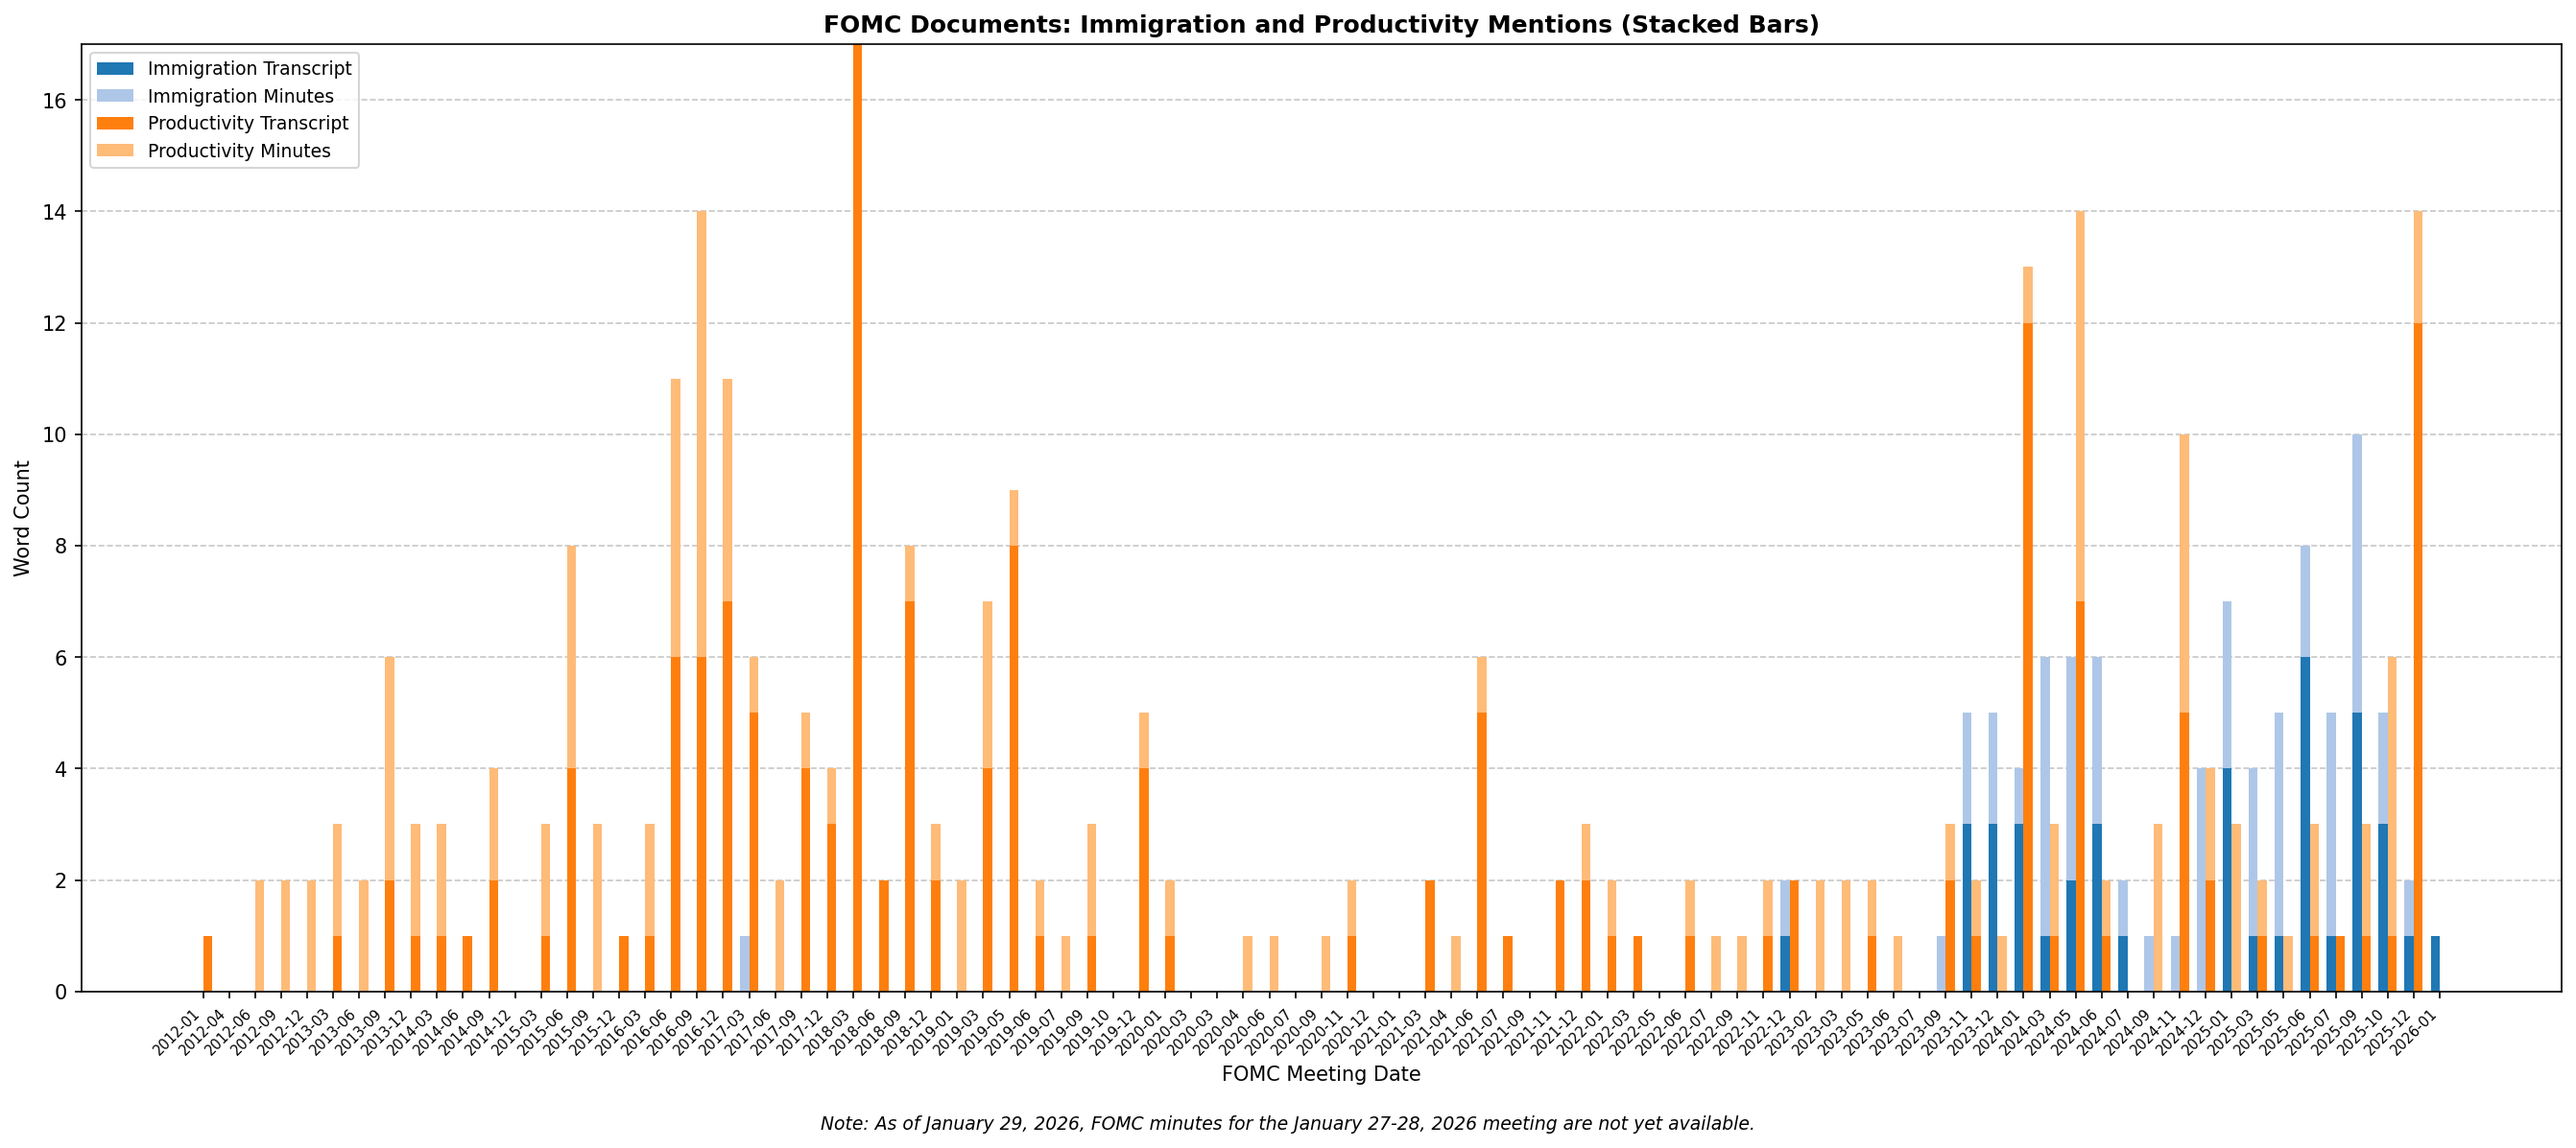
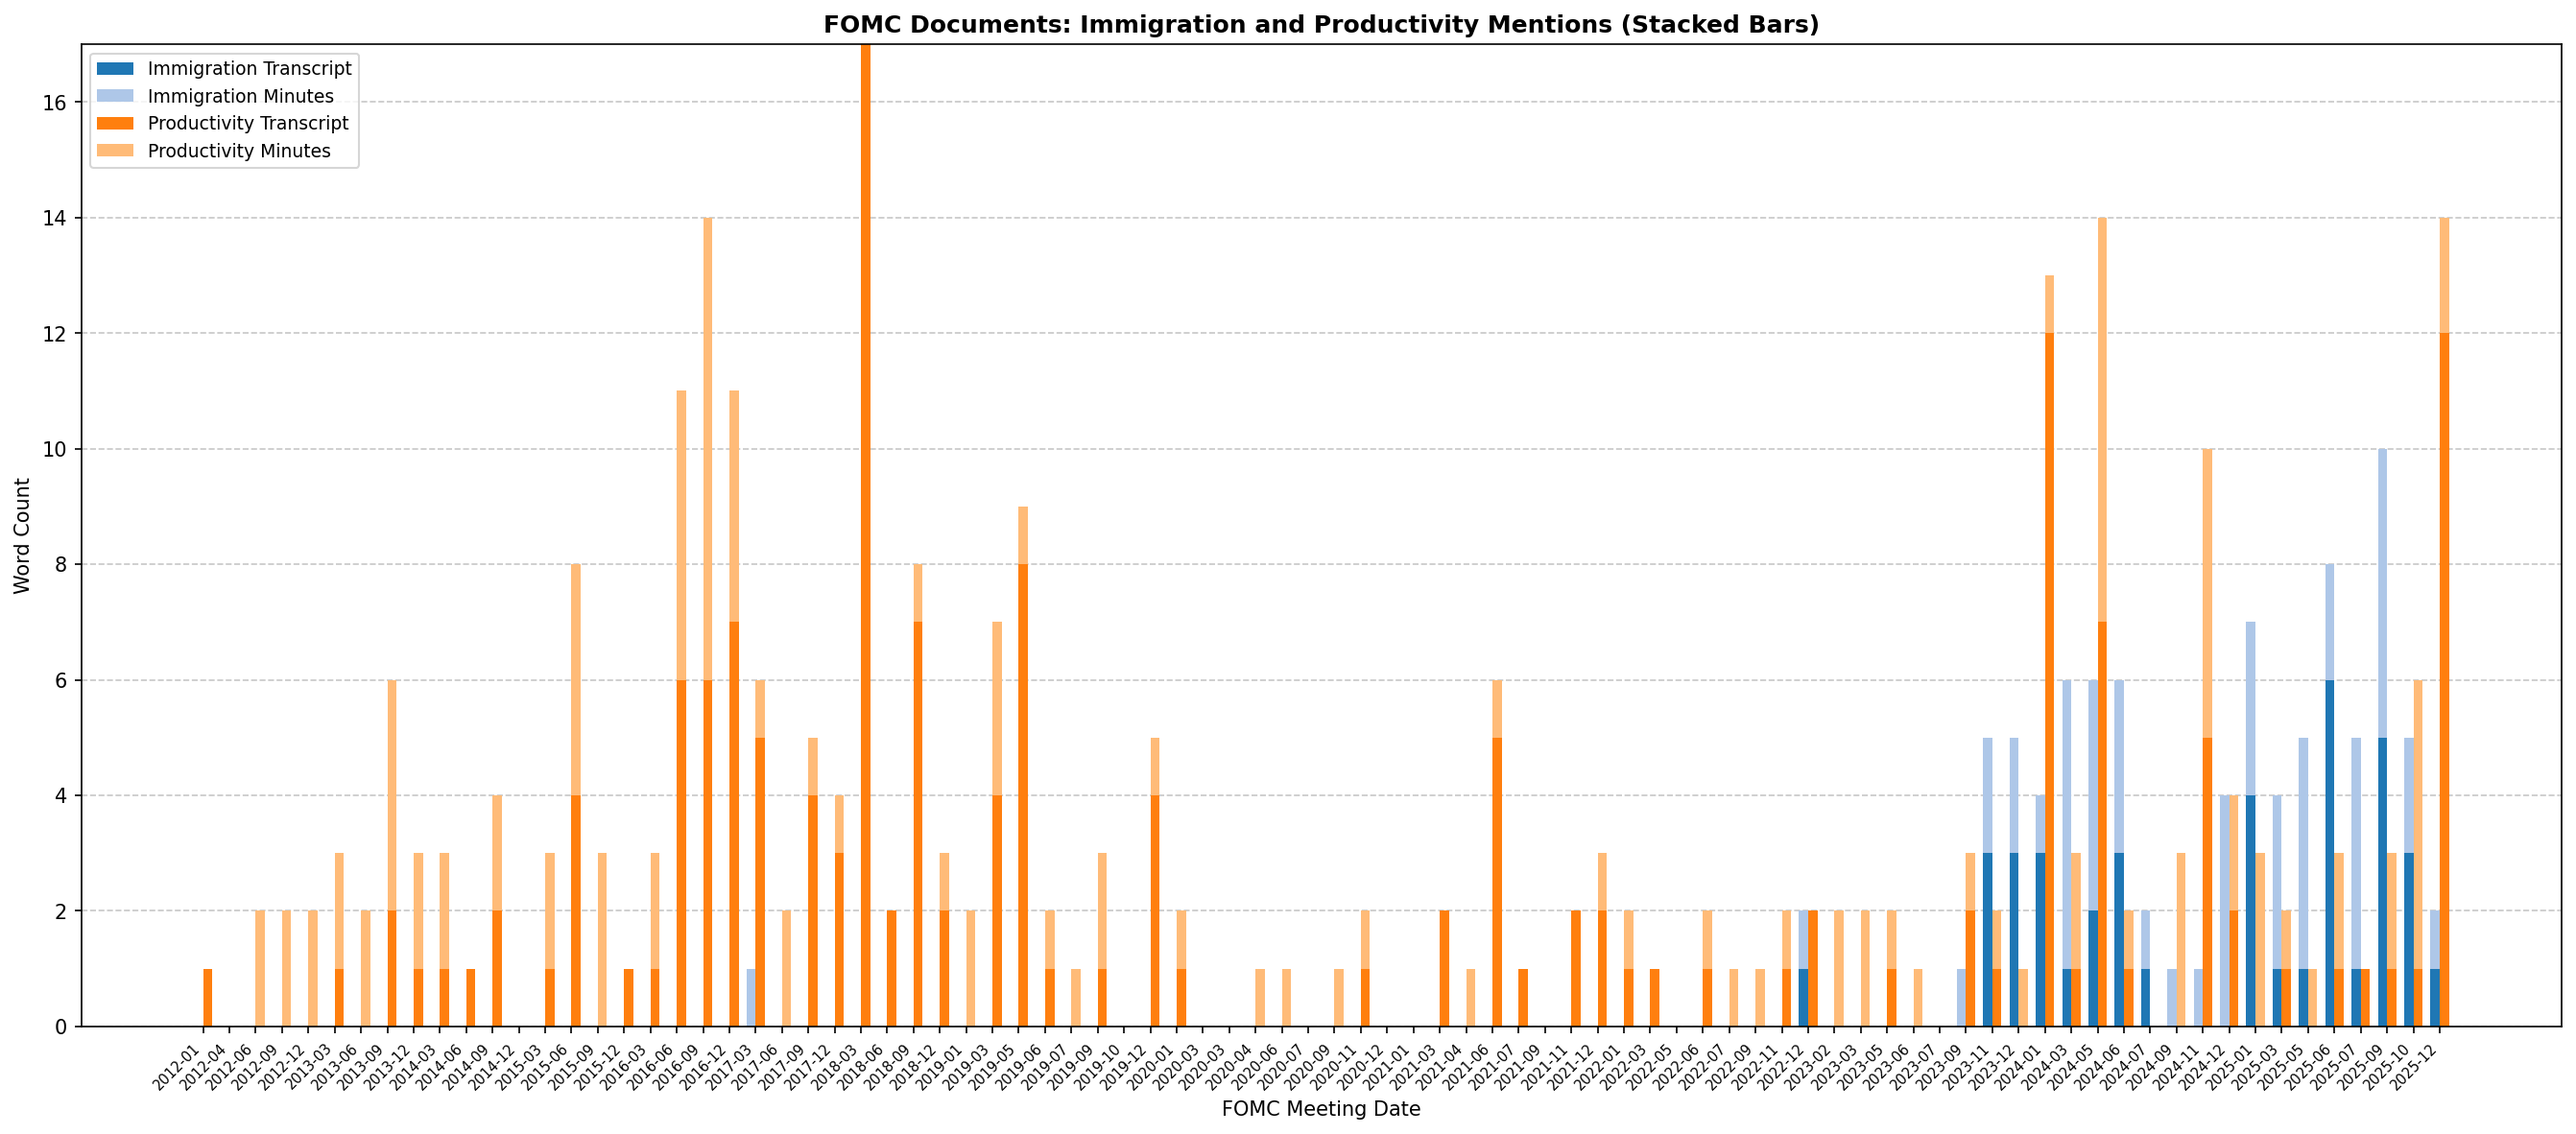
Remove incomplete Jan 2026 transcript and regenerate outputs
- Delete FOMCpresconf20260128.pdf (incomplete document)
- Remove footnote from visualizations
- Regenerate word counts (342 records, 86 transcripts)
- Update README: coverage 2012-2025, 86 transcripts

diff --git a/src/create_visualization.py b/src/create_visualization.py
@@ -48,9 +48,6 @@ def load_data():
     }
 
 
-FOOTNOTE = "Note: As of January 29, 2026, FOMC minutes for the January 27-28, 2026 meeting are not yet available."
-
-
 def draw_bar_chart(ax, data):
     """Draw grouped stacked bar chart on given axes."""
     sorted_dates = data['dates']
@@ -145,8 +142,7 @@ def create_visualization():
     fig, (ax1, ax2) = plt.subplots(2, 1, figsize=(18, 12))
     draw_bar_chart(ax1, data)
     draw_line_chart(ax2, data)
-    fig.text(0.5, 0.01, FOOTNOTE, ha='center', fontsize=9, style='italic')
-    plt.tight_layout(rect=[0, 0.03, 1, 1])
+    plt.tight_layout()
     combined_path = OUTPUT_DIR / "fomc_word_trends.png"
     plt.savefig(combined_path, dpi=150, bbox_inches='tight')
     plt.close()
@@ -155,8 +151,7 @@ def create_visualization():
     # 2. Bar chart only
     fig, ax = plt.subplots(figsize=(18, 8))
     draw_bar_chart(ax, data)
-    fig.text(0.5, 0.01, FOOTNOTE, ha='center', fontsize=9, style='italic')
-    plt.tight_layout(rect=[0, 0.03, 1, 1])
+    plt.tight_layout()
     bars_path = OUTPUT_DIR / "fomc_word_trends_bars.png"
     plt.savefig(bars_path, dpi=150, bbox_inches='tight')
     plt.close()
@@ -165,8 +160,7 @@ def create_visualization():
     # 3. Line chart only
     fig, ax = plt.subplots(figsize=(18, 6))
     draw_line_chart(ax, data)
-    fig.text(0.5, 0.01, FOOTNOTE, ha='center', fontsize=9, style='italic')
-    plt.tight_layout(rect=[0, 0.04, 1, 1])
+    plt.tight_layout()
     lines_path = OUTPUT_DIR / "fomc_word_trends_lines.png"
     plt.savefig(lines_path, dpi=150, bbox_inches='tight')
     plt.close()

diff --git a/README.md b/README.md
@@ -4,7 +4,7 @@ An end-to-end pipeline to scrape FOMC (Federal Open Market Committee) meeting mi
 
 ## Overview
 
-This project downloads official Federal Reserve documents and tracks how often the Fed discusses immigration and productivity over time. The analysis covers all FOMC meetings from 2012-2026.
+This project downloads official Federal Reserve documents and tracks how often the Fed discusses immigration and productivity over time. The analysis covers all FOMC meetings from 2012-2025.
 
 ## Pipeline Steps
 
@@ -42,7 +42,7 @@ python src/create_visualization.py  # Step 3: Generate charts
 ## Output
 
 ### Data Files
-- `data/transcripts/` - FOMC press conference transcript PDFs (87 files)
+- `data/transcripts/` - FOMC press conference transcript PDFs (86 files)
 - `data/minutes/` - FOMC meeting minutes PDFs (85 files)
 - `data/word_counts.csv` - Extracted word counts
 
